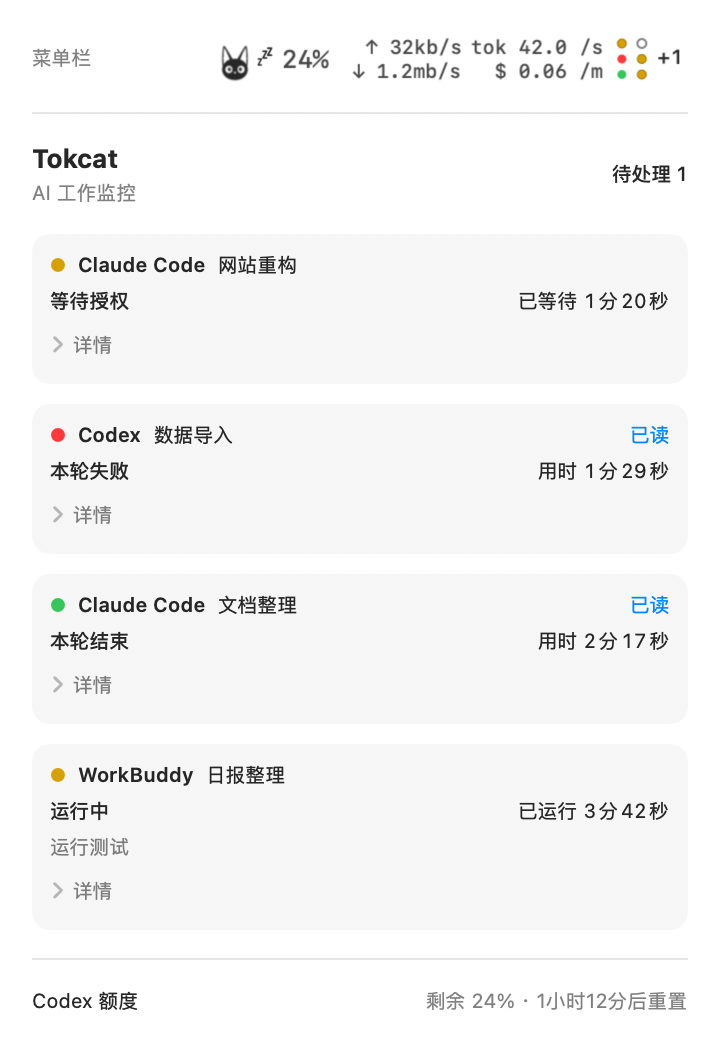
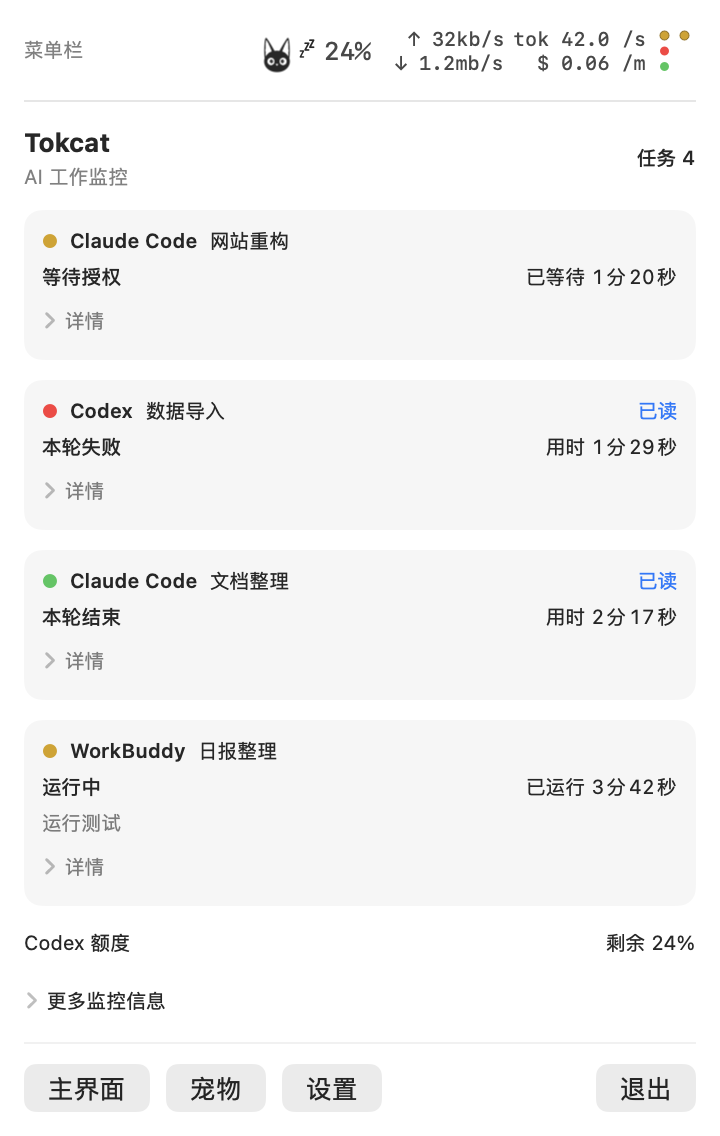
fix: prevent menu bar task panel from collapsing to zero height

diff --git a/App/AgentSessionPreview.swift b/App/AgentSessionPreview.swift
@@ -46,44 +46,66 @@ enum AgentSessionPreview {
             let icon = MenuBarStatusRenderer.image(settings: settings,
                 metrics: SystemMetrics(cpuPercent: 24, networkInBytesPerSecond: 1_250_000, networkOutBytesPerSecond: 32_768),
                 tokensPerSecond: 42, usdPerSecond: 0.001)
-            var strip = icon
-            appearance.performAsCurrentDrawingAppearance {
-                strip = SessionMenuBarRenderer.image(icon: icon, sessions: all, phase: 1, reduceMotion: true, now: now,
-                    textBounds: MenuBarStatusRenderer.textVerticalBounds(in: icon, settings: settings))
-            }
-            let content = VStack(alignment: .leading, spacing: 14) {
-                HStack {
-                    Text("菜单栏").font(.caption).foregroundStyle(.secondary)
-                    Spacer()
-                    Image(nsImage: strip).renderingMode(.original)
-                }
-                Divider()
-                HStack {
-                    VStack(alignment: .leading, spacing: 3) {
-                        Text("Tokcat").font(.headline)
-                        Text("AI 工作监控").font(.caption).foregroundStyle(.secondary)
+            for count in [0, 1, 4, 20] {
+                let previewTasks = count == 1 ? [tasks[2]] : (0..<count).map { index -> AgentSession in
+                    var value = tasks[index % tasks.count]
+                    // AgentSession IDs derive from session/source. Rebuild additional rows.
+                    if index >= tasks.count {
+                        value = session("demo-\(index)", "演示项目 \(index + 1)", .codexCLI, .activity, 30)
                     }
-                    Spacer()
-                    Text("待处理 1").font(.caption.weight(.medium))
+                    return value
                 }
-                AgentSessionList(sessions: tasks, markRead: { _ in })
-                Divider()
-                HStack {
-                    Text("Codex 额度").font(.caption)
-                    Spacer()
-                    Text("剩余 24% · 1小时12分后重置").font(.caption).foregroundStyle(.secondary)
+                var strip = icon
+                appearance.performAsCurrentDrawingAppearance {
+                    strip = SessionMenuBarRenderer.image(icon: icon, sessions: previewTasks, phase: 1,
+                        reduceMotion: true, now: now,
+                        textBounds: MenuBarStatusRenderer.textVerticalBounds(in: icon, settings: settings))
+                }
+                let panel = MenuBarPanelLayout {
+                    VStack(alignment: .leading, spacing: 12) {
+                        HStack {
+                            Text("菜单栏").font(.caption).foregroundStyle(.secondary)
+                            Spacer()
+                            Image(nsImage: strip).renderingMode(.original)
+                        }
+                        Divider()
+                        HStack {
+                            VStack(alignment: .leading, spacing: 3) {
+                                Text("Tokcat").font(.headline)
+                                Text("AI 工作监控").font(.caption).foregroundStyle(.secondary)
+                            }
+                            Spacer()
+                            Text(count == 1 ? "完成 1" : "任务 \(count)").font(.caption.weight(.medium))
+                        }
+                    }
+                } content: {
+                    VStack(alignment: .leading, spacing: 12) {
+                        AgentSessionList(sessions: previewTasks, markRead: { _ in })
+                        HStack {
+                            Text("Codex 额度").font(.caption)
+                            Spacer()
+                            Text("剩余 24%").font(.caption)
+                        }
+                        DisclosureGroup("更多监控信息") { Text("系统与用量监控") }.font(.caption)
+                    }
+                } footer: {
+                    HStack {
+                        Button("主界面") { }
+                        Button("宠物") { }
+                        Button("设置") { }
+                        Spacer()
+                        Button("退出") { }
+                    }
+                }
+                .background(Color(nsColor: .windowBackgroundColor))
+                .environment(\.colorScheme, dark ? .dark : .light)
+                // Use the same self-sizing host as a real menu window, not ImageRenderer.
+                let panelURL = directory.appendingPathComponent("menu-panel-\(count)-\(name).png")
+                try snapshotPanel(panel, to: panelURL)
+                if count == 4 {
+                    try Data(contentsOf: panelURL).write(to: directory.appendingPathComponent("ai-monitor-\(name).png"))
                 }
             }
-            .padding(16).frame(width: max(360, strip.size.width + 90))
-            .background(Color(nsColor: .windowBackgroundColor))
-            .environment(\.colorScheme, dark ? .dark : .light)
-            let renderer = ImageRenderer(content: content)
-            renderer.scale = 2
-            guard let image = renderer.nsImage, let tiff = image.tiffRepresentation,
-                  let bitmap = NSBitmapImageRep(data: tiff), let png = bitmap.representation(using: .png, properties: [:]) else {
-                throw CocoaError(.fileWriteUnknown)
-            }
-            try png.write(to: directory.appendingPathComponent("ai-monitor-\(name).png"))
 
             let samples = [1, 2, 3, 4, 6, 7].map { count -> (Int, NSImage) in
                 var sample = icon
@@ -112,5 +134,31 @@ enum AgentSessionPreview {
             try spacingPNG.write(to: directory.appendingPathComponent("task-dot-spacing-\(name).png"))
         }
     }
+    private static func snapshotPanel<V: View>(_ content: V, to url: URL) throws {
+        let hosting = NSHostingView(rootView: content)
+        // Regression check: a menu asks for the intrinsic size without a height proposal.
+        let initial = hosting.fittingSize
+        guard initial.height >= 240 else { throw CocoaError(.validationMissingMandatoryProperty) }
+        let window = NSWindow(contentRect: NSRect(origin: .zero, size: initial),
+                              styleMask: [.borderless], backing: .buffered, defer: false)
+        window.isReleasedWhenClosed = false
+        window.contentView = hosting
+        window.orderBack(nil)
+        defer { window.close() }
+        for _ in 0..<3 {
+            hosting.layoutSubtreeIfNeeded()
+            RunLoop.main.run(until: Date().addingTimeInterval(0.1))
+            window.setContentSize(hosting.fittingSize)
+        }
+        hosting.layoutSubtreeIfNeeded()
+        guard hosting.fittingSize.height > 120, hosting.fittingSize.height < 720,
+              let bitmap = hosting.bitmapImageRepForCachingDisplay(in: hosting.bounds) else {
+            throw CocoaError(.validationMissingMandatoryProperty)
+        }
+        hosting.cacheDisplay(in: hosting.bounds, to: bitmap)
+        guard let png = bitmap.representation(using: .png, properties: [:]) else { throw CocoaError(.fileWriteUnknown) }
+        try png.write(to: url)
+    }
+
 }
 #endif

diff --git a/App/MenuBarContentView.swift b/App/MenuBarContentView.swift
@@ -12,31 +12,27 @@ struct MenuBarContentView: View {
     }
 
     var body: some View {
-        VStack(alignment: .leading, spacing: 10) {
+        MenuBarPanelLayout {
             header
-            ScrollView {
-                VStack(alignment: .leading, spacing: 12) {
-                    AgentSessionsPanel(model: model, live: live)
-                    if model.settings.showCodexUsageSummary, live.codexUsage != nil {
-                        codexUsageBlock
-                    }
-                    if model.settings.showTokenSummary { tokenSummaryRow }
-                    DisclosureGroup("更多监控信息") {
-                        VStack(spacing: 10) {
-                            if showsAnySystemMetric { systemMetricsGrid }
-                            if model.settings.showRecentTokenEvents, !model.recentEvents.isEmpty { recentEventsBlock }
-                            if model.settings.showPetSummary { petStatusRow }
-                        }
-                    }
-                    .font(.caption)
+        } content: {
+            VStack(alignment: .leading, spacing: 12) {
+                AgentSessionsPanel(model: model, live: live)
+                if model.settings.showCodexUsageSummary, live.codexUsage != nil {
+                    codexUsageBlock
                 }
+                if model.settings.showTokenSummary { tokenSummaryRow }
+                DisclosureGroup("更多监控信息") {
+                    VStack(spacing: 10) {
+                        if showsAnySystemMetric { systemMetricsGrid }
+                        if model.settings.showRecentTokenEvents, !model.recentEvents.isEmpty { recentEventsBlock }
+                        if model.settings.showPetSummary { petStatusRow }
+                    }
+                }
+                .font(.caption)
             }
-            .frame(maxHeight: 500)
-            Divider().opacity(0.55)
+        } footer: {
             actionBar
         }
-        .padding(12)
-        .frame(width: 360)
     }
 
     // MARK: - Header
@@ -619,5 +615,44 @@ struct MenuBarContentView: View {
             return String(format: "%.2fk", Double(value) / 1_000)
         }
         return "\(value)"
+    }
+}
+
+/// MenuBarExtra asks for the panel's intrinsic size. A ScrollView with only a
+/// maximum height can report zero, leaving just the header and action bar.
+/// Measure the unbounded content and give the viewport an explicit bounded height.
+struct MenuBarPanelLayout<Header: View, Content: View, Footer: View>: View {
+    @ViewBuilder var header: Header
+    @ViewBuilder var content: Content
+    @ViewBuilder var footer: Footer
+    @State private var contentHeight: CGFloat = 240
+
+    var body: some View {
+        VStack(alignment: .leading, spacing: 10) {
+            header
+            ScrollView {
+                content
+                    .frame(maxWidth: .infinity, alignment: .leading)
+                    .fixedSize(horizontal: false, vertical: true)
+                    .background(GeometryReader { geometry in
+                        Color.clear.preference(key: MenuBarContentHeightKey.self, value: geometry.size.height)
+                    })
+            }
+            .frame(height: min(500, max(1, contentHeight)))
+            .onPreferenceChange(MenuBarContentHeightKey.self) { height in
+                if height.isFinite && height > 0 { contentHeight = ceil(height) }
+            }
+            Divider().opacity(0.55)
+            footer
+        }
+        .padding(12)
+        .frame(width: 360)
+    }
+}
+
+private struct MenuBarContentHeightKey: PreferenceKey {
+    static var defaultValue: CGFloat = 0
+    static func reduce(value: inout CGFloat, nextValue: () -> CGFloat) {
+        value = max(value, nextValue())
     }
 }
